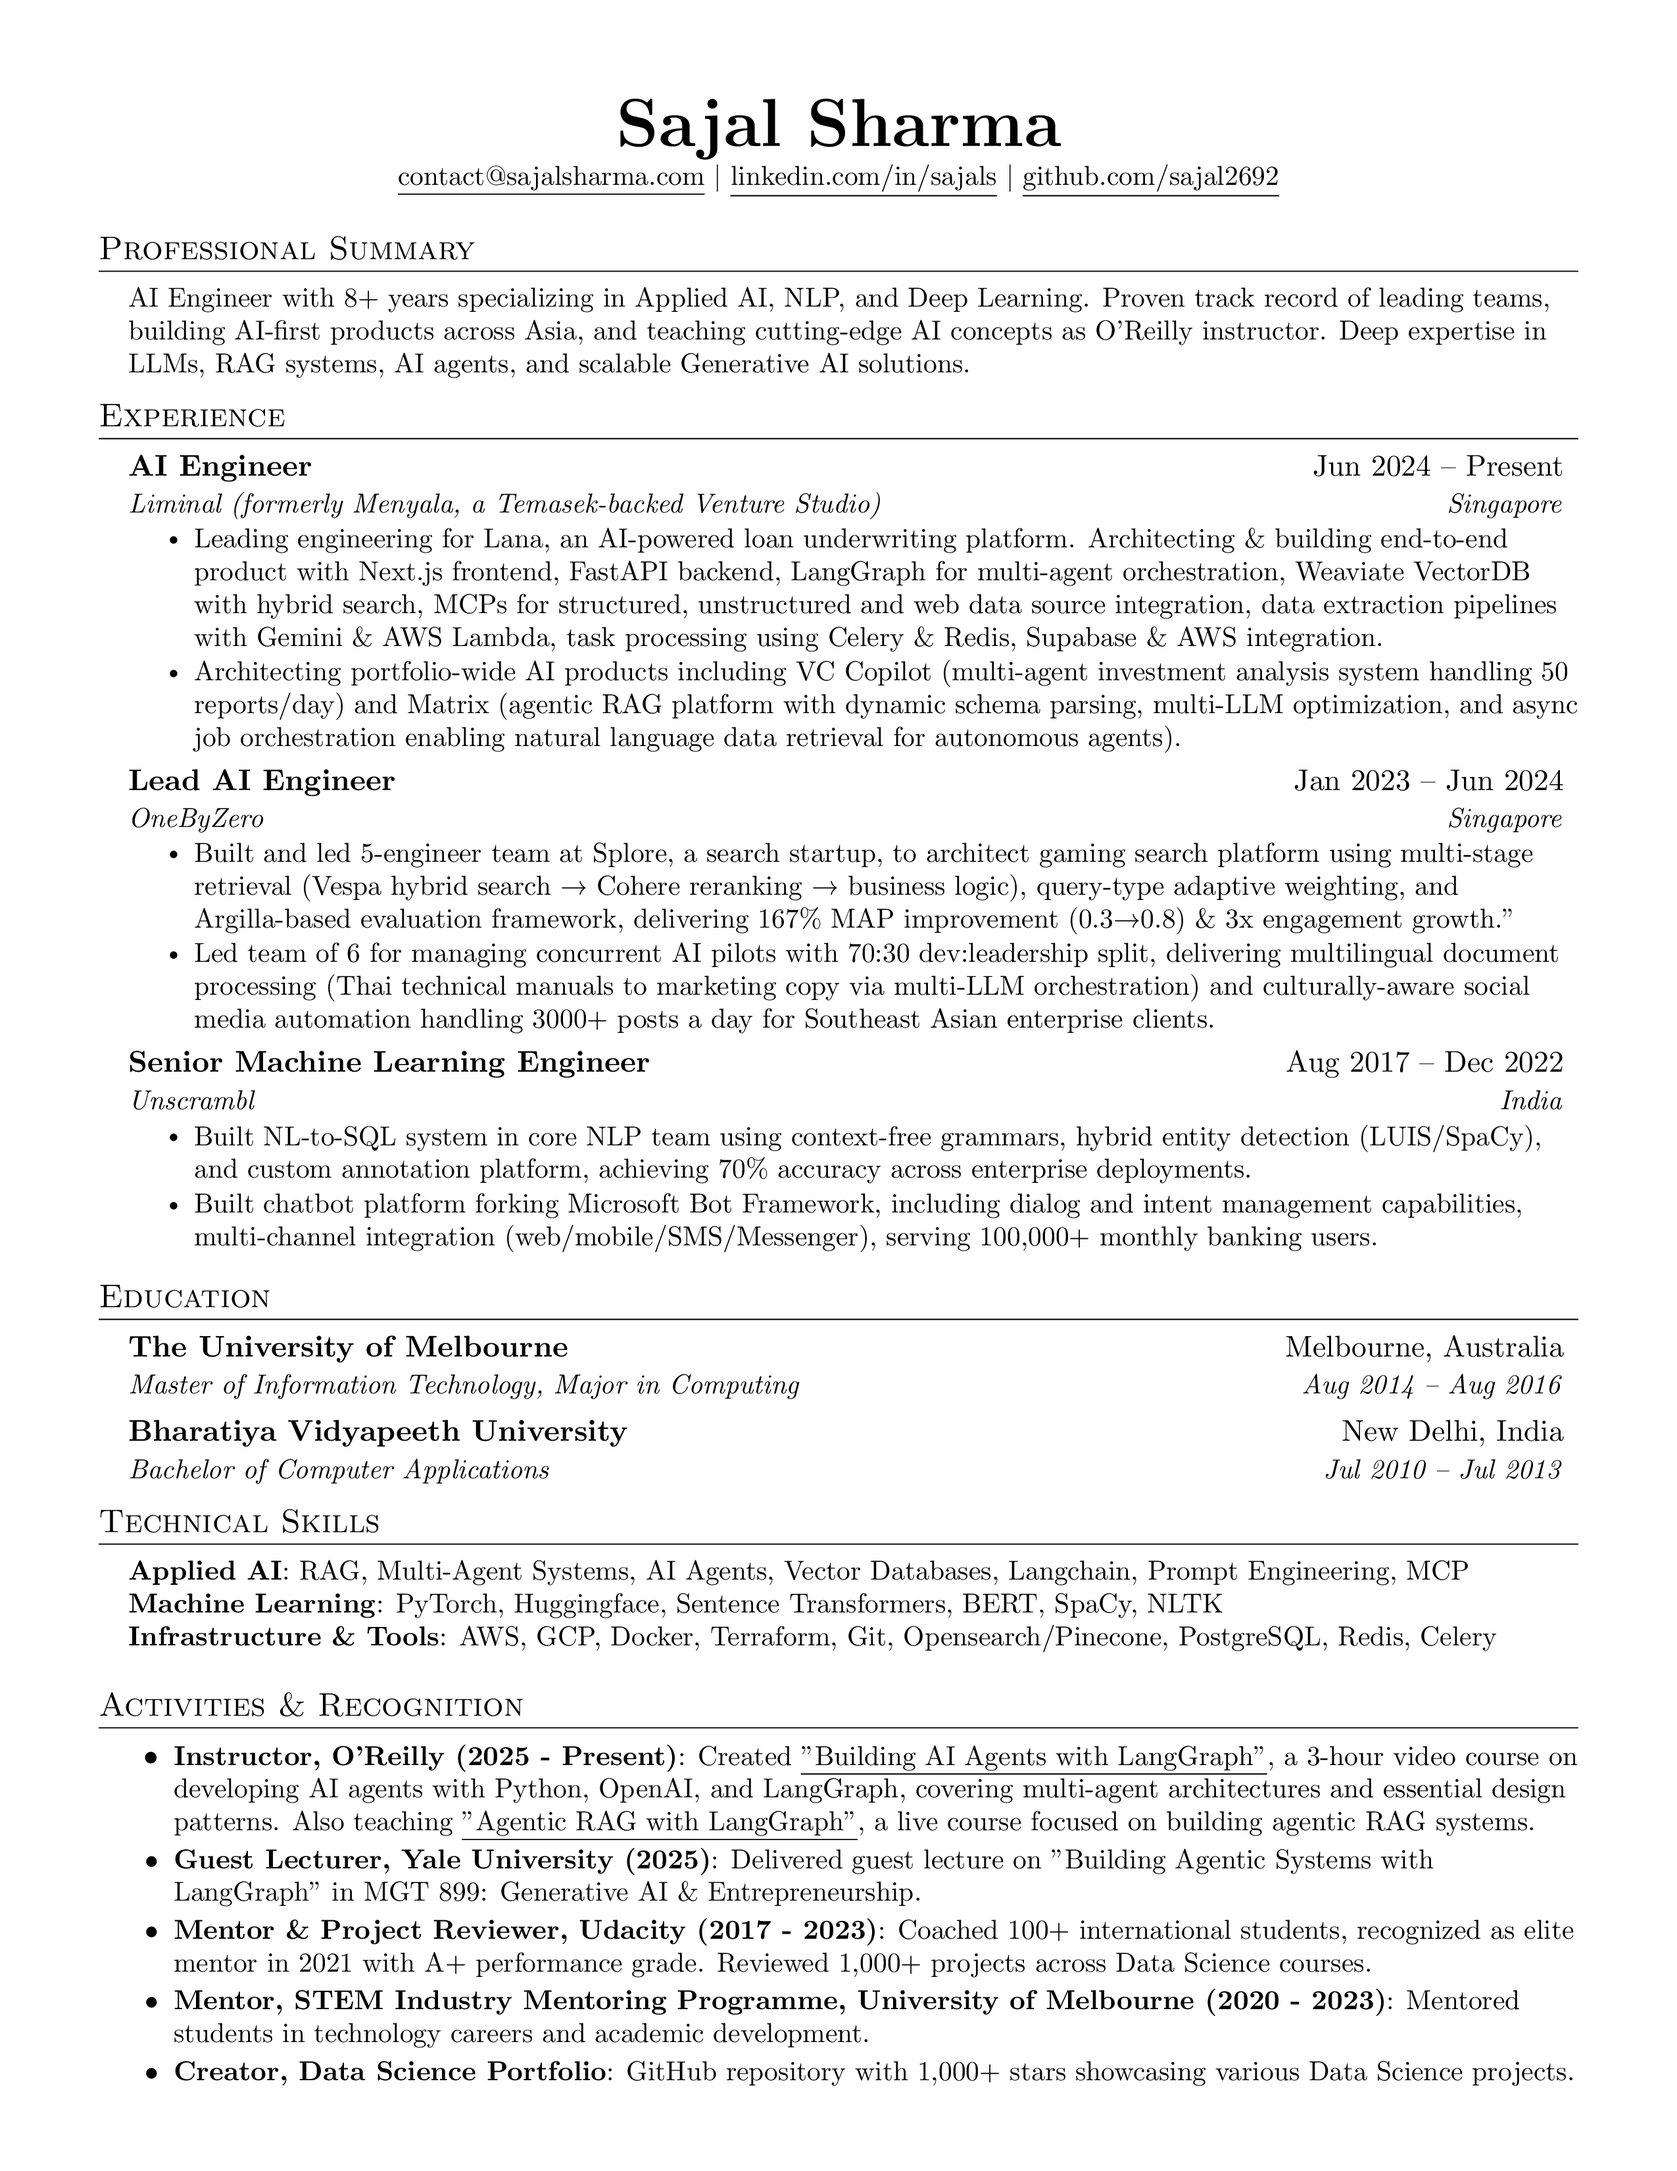
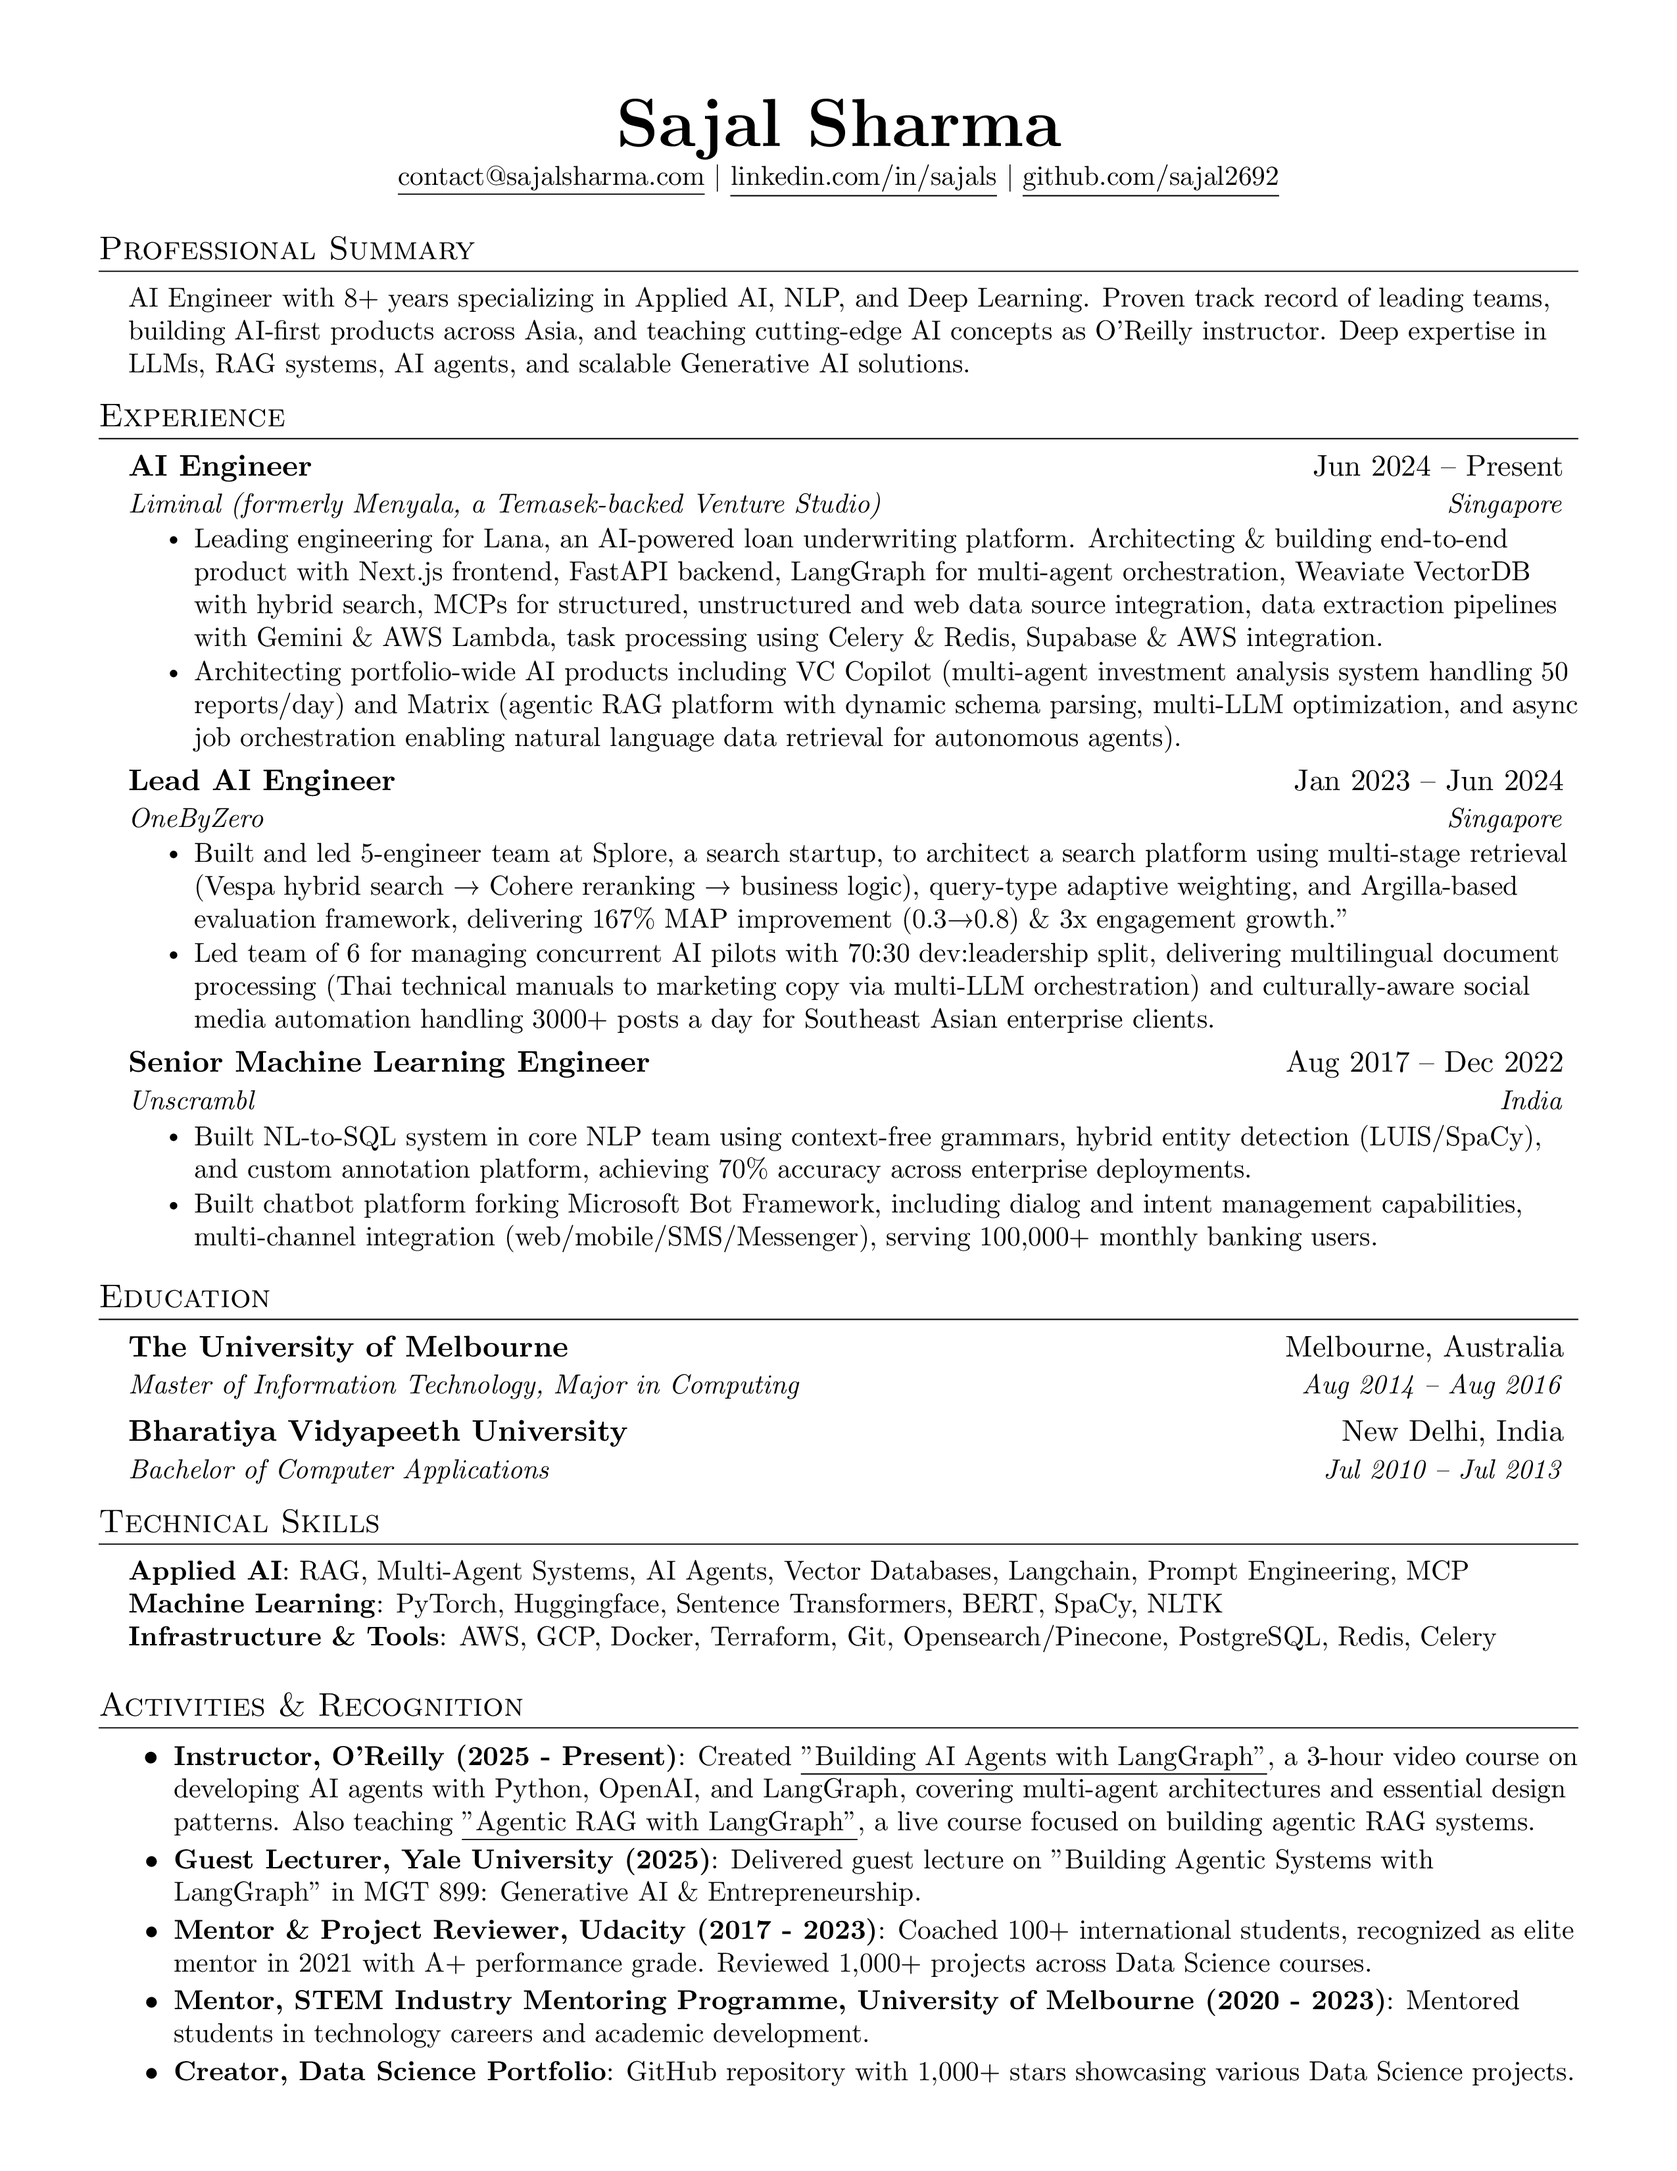
updates

Changed region(s): [[0.1239, 0.3745, 0.8984, 0.437]]

diff --git a/resume.tex b/resume.tex
@@ -140,7 +140,7 @@
     {Lead AI Engineer}{Jan 2023 -- Jun 2024}
     {OneByZero}{Singapore}
     \resumeItemListStart
-      \resumeItem{Built and led 5-engineer team at Splore, a search startup, to architect gaming search platform using multi-stage retrieval (Vespa hybrid search → Cohere reranking → business logic), query-type adaptive weighting, and Argilla-based evaluation framework, delivering 167\% MAP improvement (0.3→0.8) \& 3x engagement growth."}
+      \resumeItem{Built and led 5-engineer team at Splore, a search startup, to architect a search platform using multi-stage retrieval (Vespa hybrid search → Cohere reranking → business logic), query-type adaptive weighting, and Argilla-based evaluation framework, delivering 167\% MAP improvement (0.3→0.8) \& 3x engagement growth."}
       \resumeItem{Led team of 6 for managing concurrent AI pilots with 70:30 dev:leadership split, delivering multilingual document processing (Thai technical manuals to marketing copy via multi-LLM orchestration) and culturally-aware social media automation handling 3000+ posts a day for Southeast Asian enterprise clients.}
     \resumeItemListEnd
   
